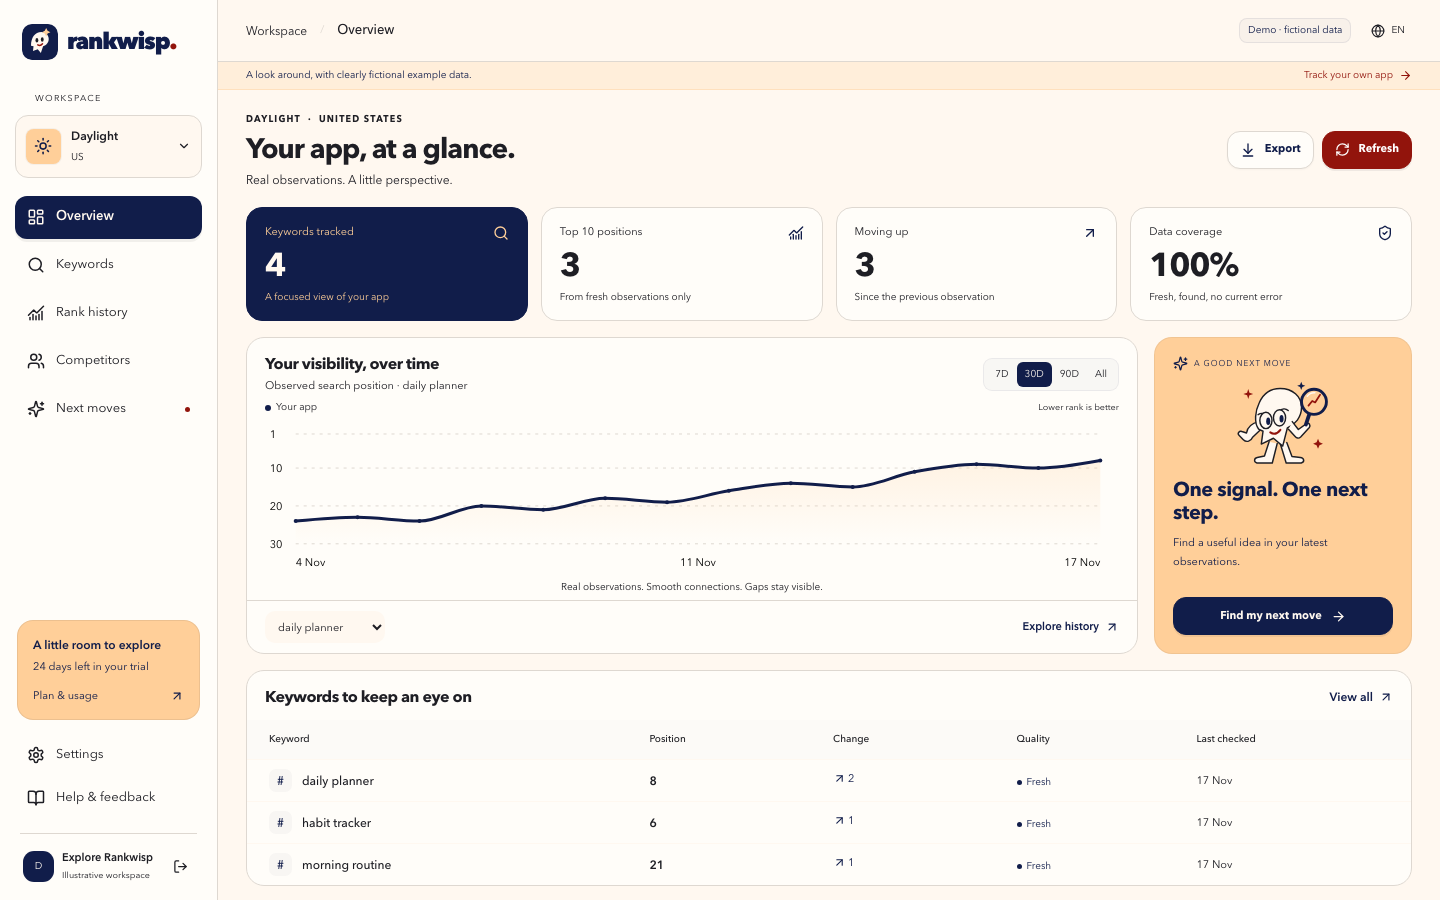
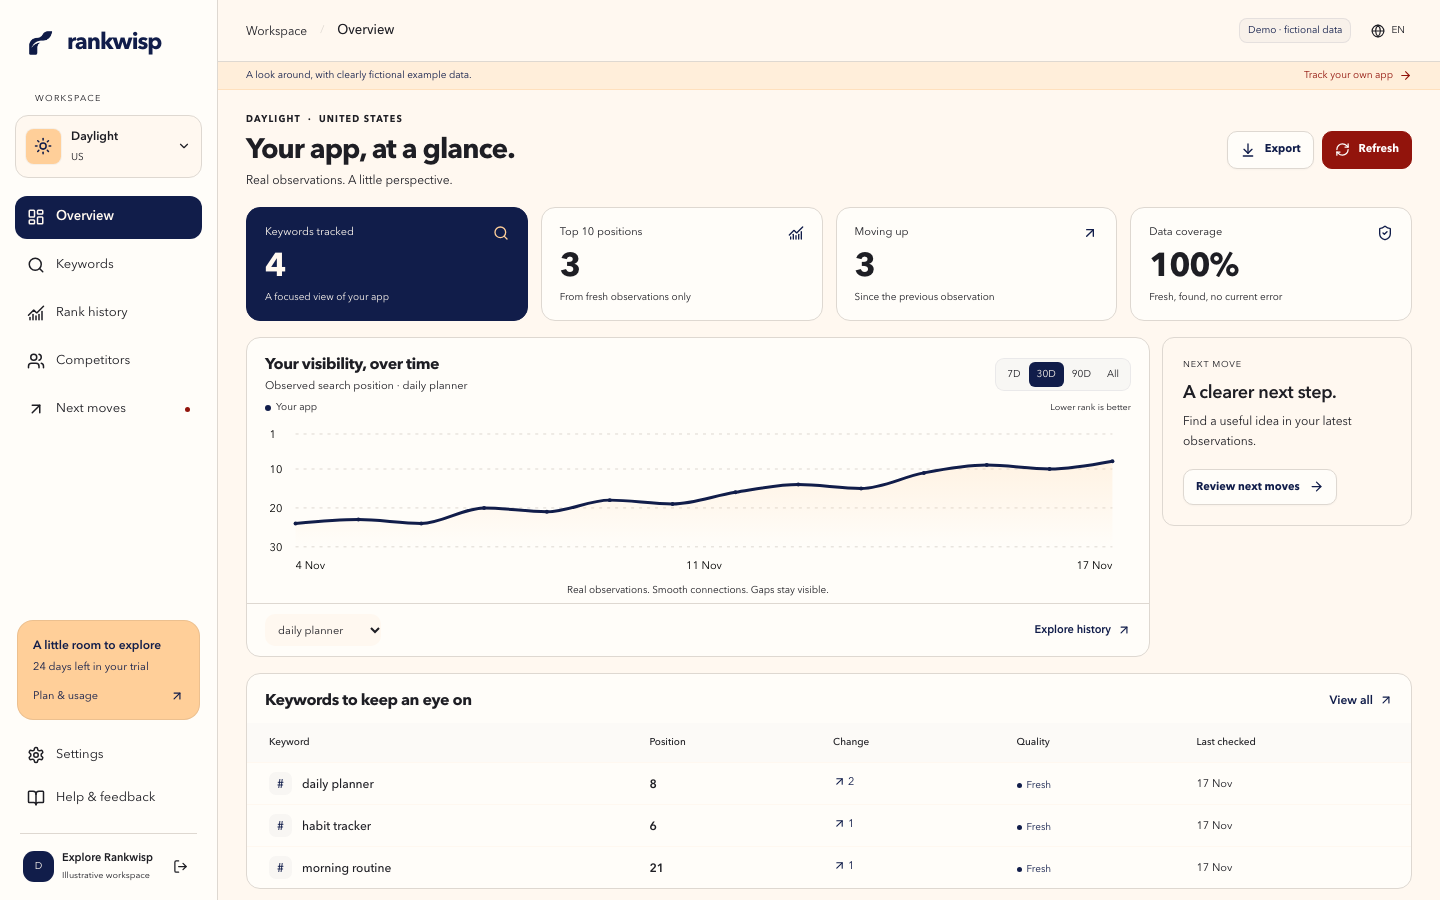
Record live open-source deployment and final native visual checks

diff --git a/docs/QA.md b/docs/QA.md
@@ -101,12 +101,17 @@ kein Node-Zugriff im Renderer, keine Laufzeitfehler und kein Dokumentüberlauf. 
 Testprofil; persönliche App-Daten unberührt. Windows-ZIP gebaut, Name/Icon/Ressourcen
 aktualisiert; Windows-Laufzeittest weiterhin offen.
 
-Finaler iOS-Simulatorbuild **0.2.0 (2), iOS 15.4+** ad hoc signiert, installiert und
-visuell geprüft. Neue Loginoberfläche und Safe Areas korrekt; Live-Config wird geladen,
+Finaler iOS-Simulatorbuild **0.2.0 (2), iOS 15.4+** ad hoc signiert, auf einem
+eigenen iOS-18.6-Simulator installiert und visuell geprüft. Neue Loginoberfläche und Safe Areas korrekt; Live-Config wird geladen,
 kein Server-/Keychainfehler. Ein zunächst unsignierter Build lieferte Keychainfehler
 −34018; SDK-spezifische Simulator-Entitlements und Ad-hoc-Signing beheben ihn.
 Leerer Keychain liefert danach erwartungsgemäss −25300. URL-Scheme-Dispatch geprüft;
 unaufgeforderter Callback gewährt keine Sitzung. Screenshot `native-ios-login.png`.
+Die iOS-27-Simulatorlaufzeit blockierte Installation/Screenshots durch stark belastende
+Wallpaper-/Poster-Systemprozesse; der eigene Testsimulator wurde heruntergefahren.
+Der identische Build bestand danach den sichtbaren Start auf dem separat angelegten
+iOS-18.6-Simulator, der anschliessend ebenfalls beendet wurde. Fremde Simulatoren
+blieben unverändert.
 Die Simulator-Steuerung war im CUA-Werkzeug nicht verfügbar; echte native Touch-,
 Demo- und Keyboard-Flows wurden deshalb nicht als geprüft ausgegeben. Physische Geräte,
 VoiceOver, Geräte-Signierung, macOS-Notarisierung und Store-Review bleiben offen.
@@ -139,3 +144,19 @@ Offen vor kommerziellem Betrieb:
 Der private App-Store-Connect-Berichtdownload bleibt im erhaltenen Swift-Bestand;
 er wurde nicht als universelle Windows-/iOS-Funktion ausgegeben. Historische Belege
 in `IMPLEMENTATION.md` beziehen sich auf die Vorversion; dieser Prüfstand hat Vorrang.
+
+## Letzte Live-Prüfung dieser Revision
+
+Anwendungsstand `de246ca`: GitHub-CI für `main` und `development` erfolgreich.
+Native GitHub-Push-Deployments in Pages erfolgreich (Produktion `352cbce3`, Vorschau
+`0afd3553`). Production-Worker `85f298b7-e54c-46d2-93f6-0f523989e9e8`, Preview-Worker
+`f07d969c-9ddc-44a7-8c4d-c79f7ee2f20b` veröffentlicht. Der separate Worker-CI-Deploy
+ist mangels dauerhaftem CI-Token weiterhin absichtlich deaktiviert; die tatsächlichen
+Worker-Veröffentlichungen erfolgten mit der autorisierten lokalen Cloudflare-Anmeldung.
+
+Live unter `rank.zhstudio.ch` und `development.rankwisp.pages.dev` erneut geprüft:
+minimale Website und Demo, sichtbare GitHub-Links, korrektes Canonical, ausgelieferte
+MIT-Lizenz, bytegleiches neues Icon, keine Page-Errors und kein Dokumentüberlauf bei
+390×844. Health/Config 200; Vorschlagsroute ohne Sitzung mit gültigem Origin 401,
+ohne Origin 403. Google/KI-Verfügbarkeitsflags bleiben korrekt false. Screenshots
+`live-*` und `preview-*` dokumentieren die tatsächlichen HTTPS-Seiten.

diff --git a/docs/OPEN-SOURCE.md b/docs/OPEN-SOURCE.md
@@ -20,7 +20,8 @@ ignored. Resource IDs, service names and callback URLs are not authorization sec
 
 ## Publication review
 
-- Gitleaks scanned all five pre-publication commits: no secret findings.
+- Gitleaks scanned all five original commits and then all six commits including the
+  complete publication change: no secret findings.
 - Gitleaks scanned the current source tree: no secret findings.
 - Independent manual review checked tracked files, legacy seed/history, configuration
   and 21 screenshots: no private account/customer datasets or credentials found.
@@ -28,6 +29,8 @@ ignored. Resource IDs, service names and callback URLs are not authorization sec
   clearly labelled. Stale documentation claiming real seed observations was corrected.
 - Runtime dependency notices and their verbatim license texts are preserved; original
   generated brand sources and prompts remain available.
+- GitHub public visibility and MIT detection were verified without authentication.
+  GitHub private vulnerability reporting is enabled.
 - Pull-request quality checks have read-only permissions and no deployment secrets.
   Production deployment remains a separate trusted-branch workflow.
 
